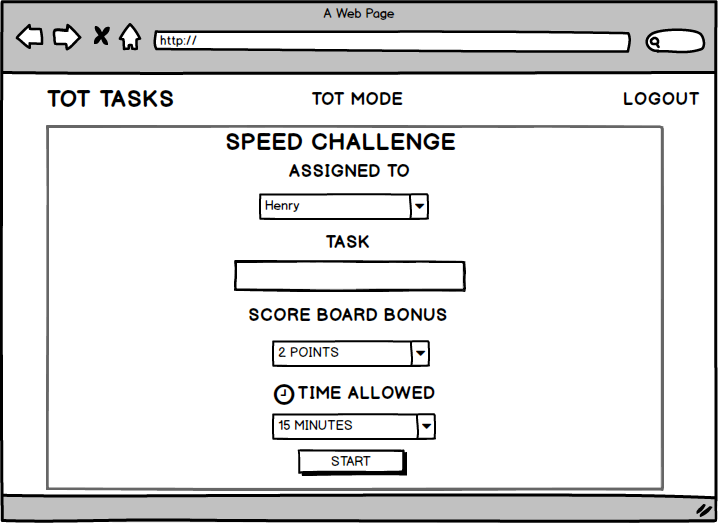
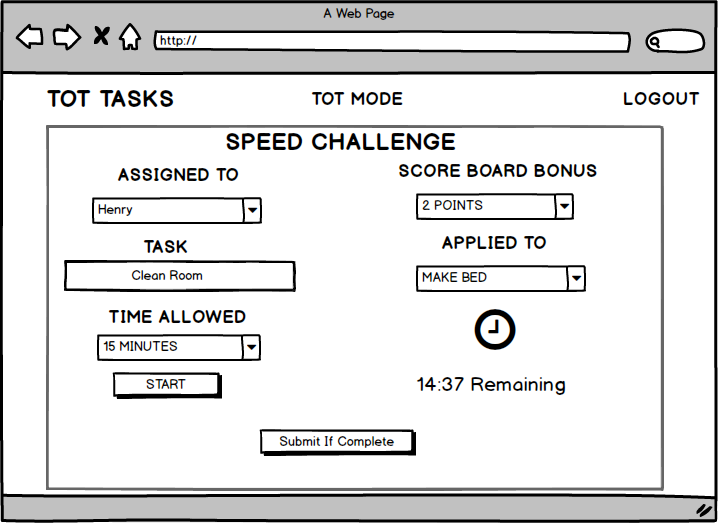
updated wireframes and README

Changed region(s): [[0.0919, 0.3059, 0.8273, 0.9178], [0.3983, 0.3059, 0.8273, 0.3365]]

diff --git a/README.md b/README.md
@@ -1,4 +1,4 @@
-## TOT TASKS - A MOTIVATIONAL CHOREBOARD FOR DISTRESSED PARENTS AND FUN LOVIN' TOTS.
+## TOT TASKER - A MOTIVATIONAL CHOREBOARD FOR DISTRESSED PARENTS AND FUN LOVIN' TOTS.
 
 ## USER STORIES
 * Users will be able to:
@@ -10,7 +10,7 @@
 	* Set a reward for the Tot upon meeting their goal.
 	* Edit A Task's overall goal or reward. 
 	* Reset the Goal to 0 at the Parent's discretion (i.e. - child forgot to make bed.) if goal was not met.  
-	* Set A Speed Challenge where Tots need to complete a single, specific task in a set amount of time for a bonus points on the scoreboard. 
+	* Set A Speed Challenge where Tots need to complete a single, specific task in a set amount of time for a bonus points towards the task of their choice. 
 	* Reset The family scoreboard
 
 * In Tot Mode, Users Can Show Tots: 
@@ -45,20 +45,41 @@ https://trello.com/b/1hGx58Q3/david-ps-capstone
 	* Progress - Int?
 	* Rewards - String
 	* Complete - Boolean
+	* ID
+
+* Speed Challenge
+	* Tot Relation - ID
+	* Task - String
+	* Score - Integer
+	* Timer
 
 ## ROUTES - CRUDing 
 * Register/Login Routes
-	* register route -> ('/tot-tasks/register') --> POST
-	* login route -> ('/tot-tasks/login') --> POST
-	* logout route -> ('/tot-tasks/logout') --> GET
+	* register route - ('/tot-tasks/register') --> POST
+	* login route - ('/tot-tasks/login') --> POST
+	* logout route - ('/tot-tasks/logout') --> GET
 
 * Main Site Routes/
-	* main site route -> ('/tot-tasks') --> GET
-	* tot component - lists tots & their active tasks - ('/tot-tasks/tots') --> GET
+	* main site route - ('/tot-tasks') --> GET
+	* tot component - lists all tots & their active tasks - ('/tot-tasks/tots') --> GET
+	* scoreboard - ('/tot-tasks/tots/<tot_id>') - GET
+	* + / - scoring component - '/tot-tasks/tots/<tot_id>/<task_id>' --> POST
 
 * Task Adder
-	* create task route -> ('/tot-tasks/tasks/new') --> POST
-    * update/edit task route -> ('/tasks/<task_id>') --> PUT 
-    * delete task route -> ('/tasks/<task_id>') --> Delete
+	* create task route - ('/tot-tasks/tasks/new') --> POST
+    * update/edit task route - ('/tasks/<task_id>') --> PUT 
+    * delete task route - ('/tasks/<task_id>') --> Delete
+
+* Speed Challenge
+	* tot component - /tot-tasks/tots/<tot_id> --> GET
+	* task component - ('/tot-tasks/tasks/new') --> POST
+	* submit component - /tot-tasks/tots/<tot_id>/<task_id>' --> POST
+
+
+* Tot Mode
+	* scoreboard (from above) - ('/tot-tasks/tots/<tot_id>') - GET
+	* tot component (from above) - lists all tots & their active tasks - ('/tot-tasks/tots') --> GET
+
+
 
 
